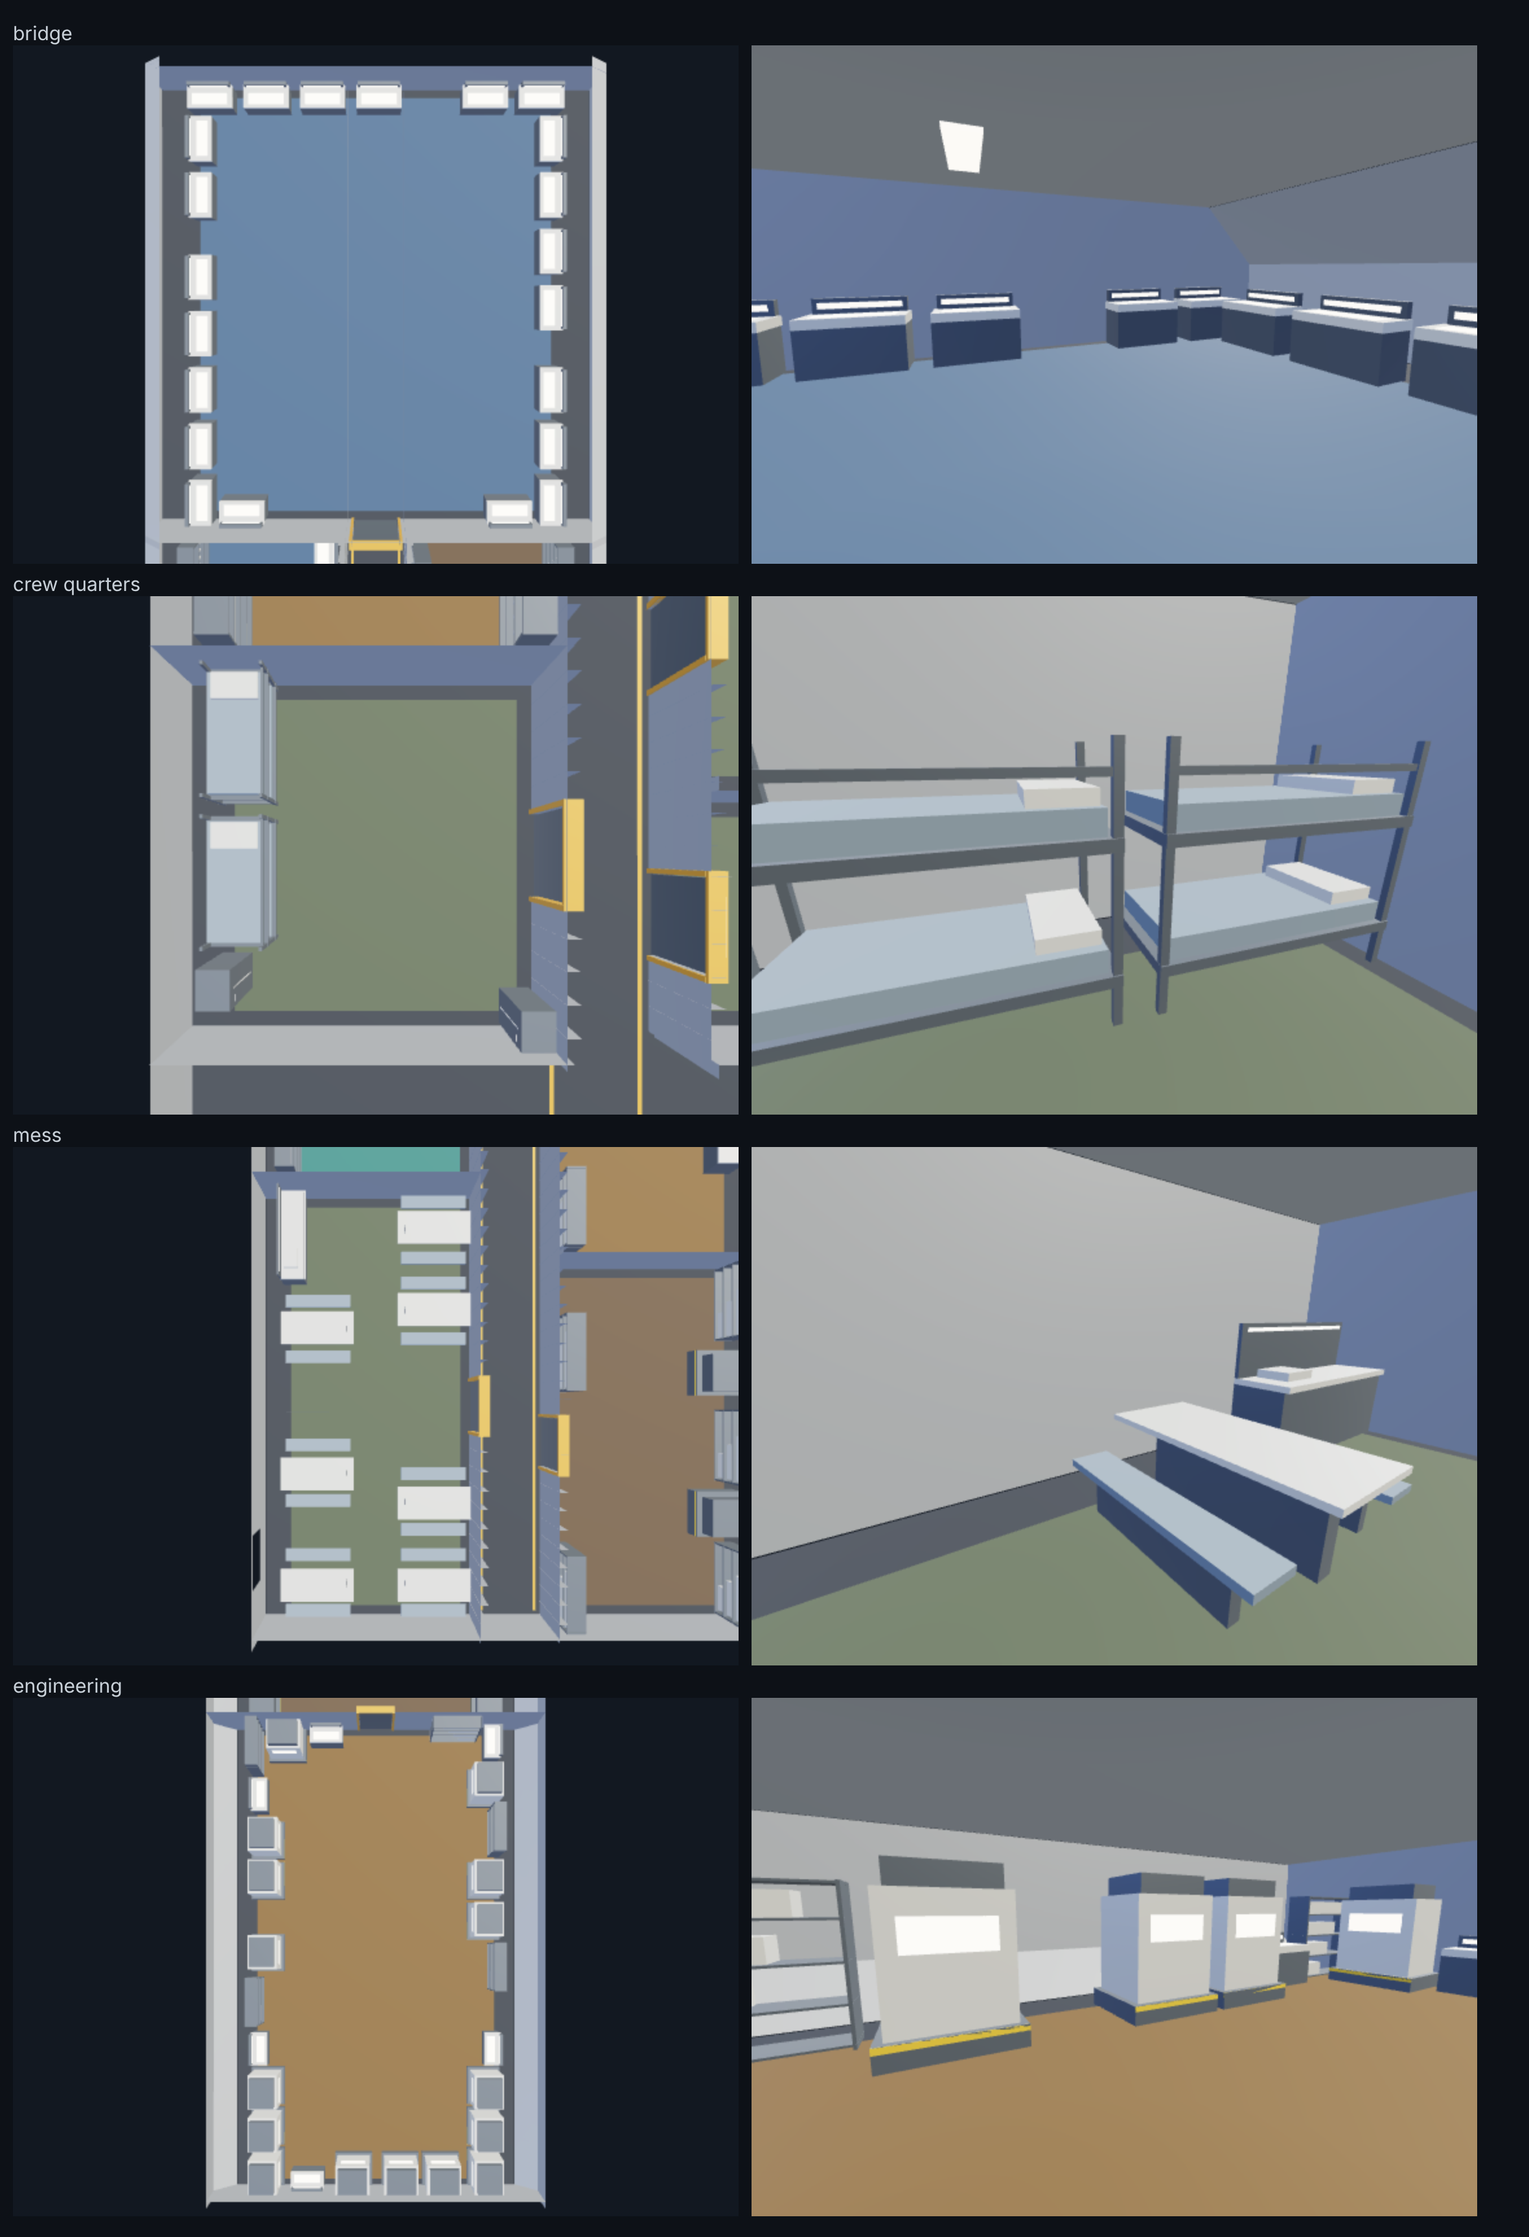
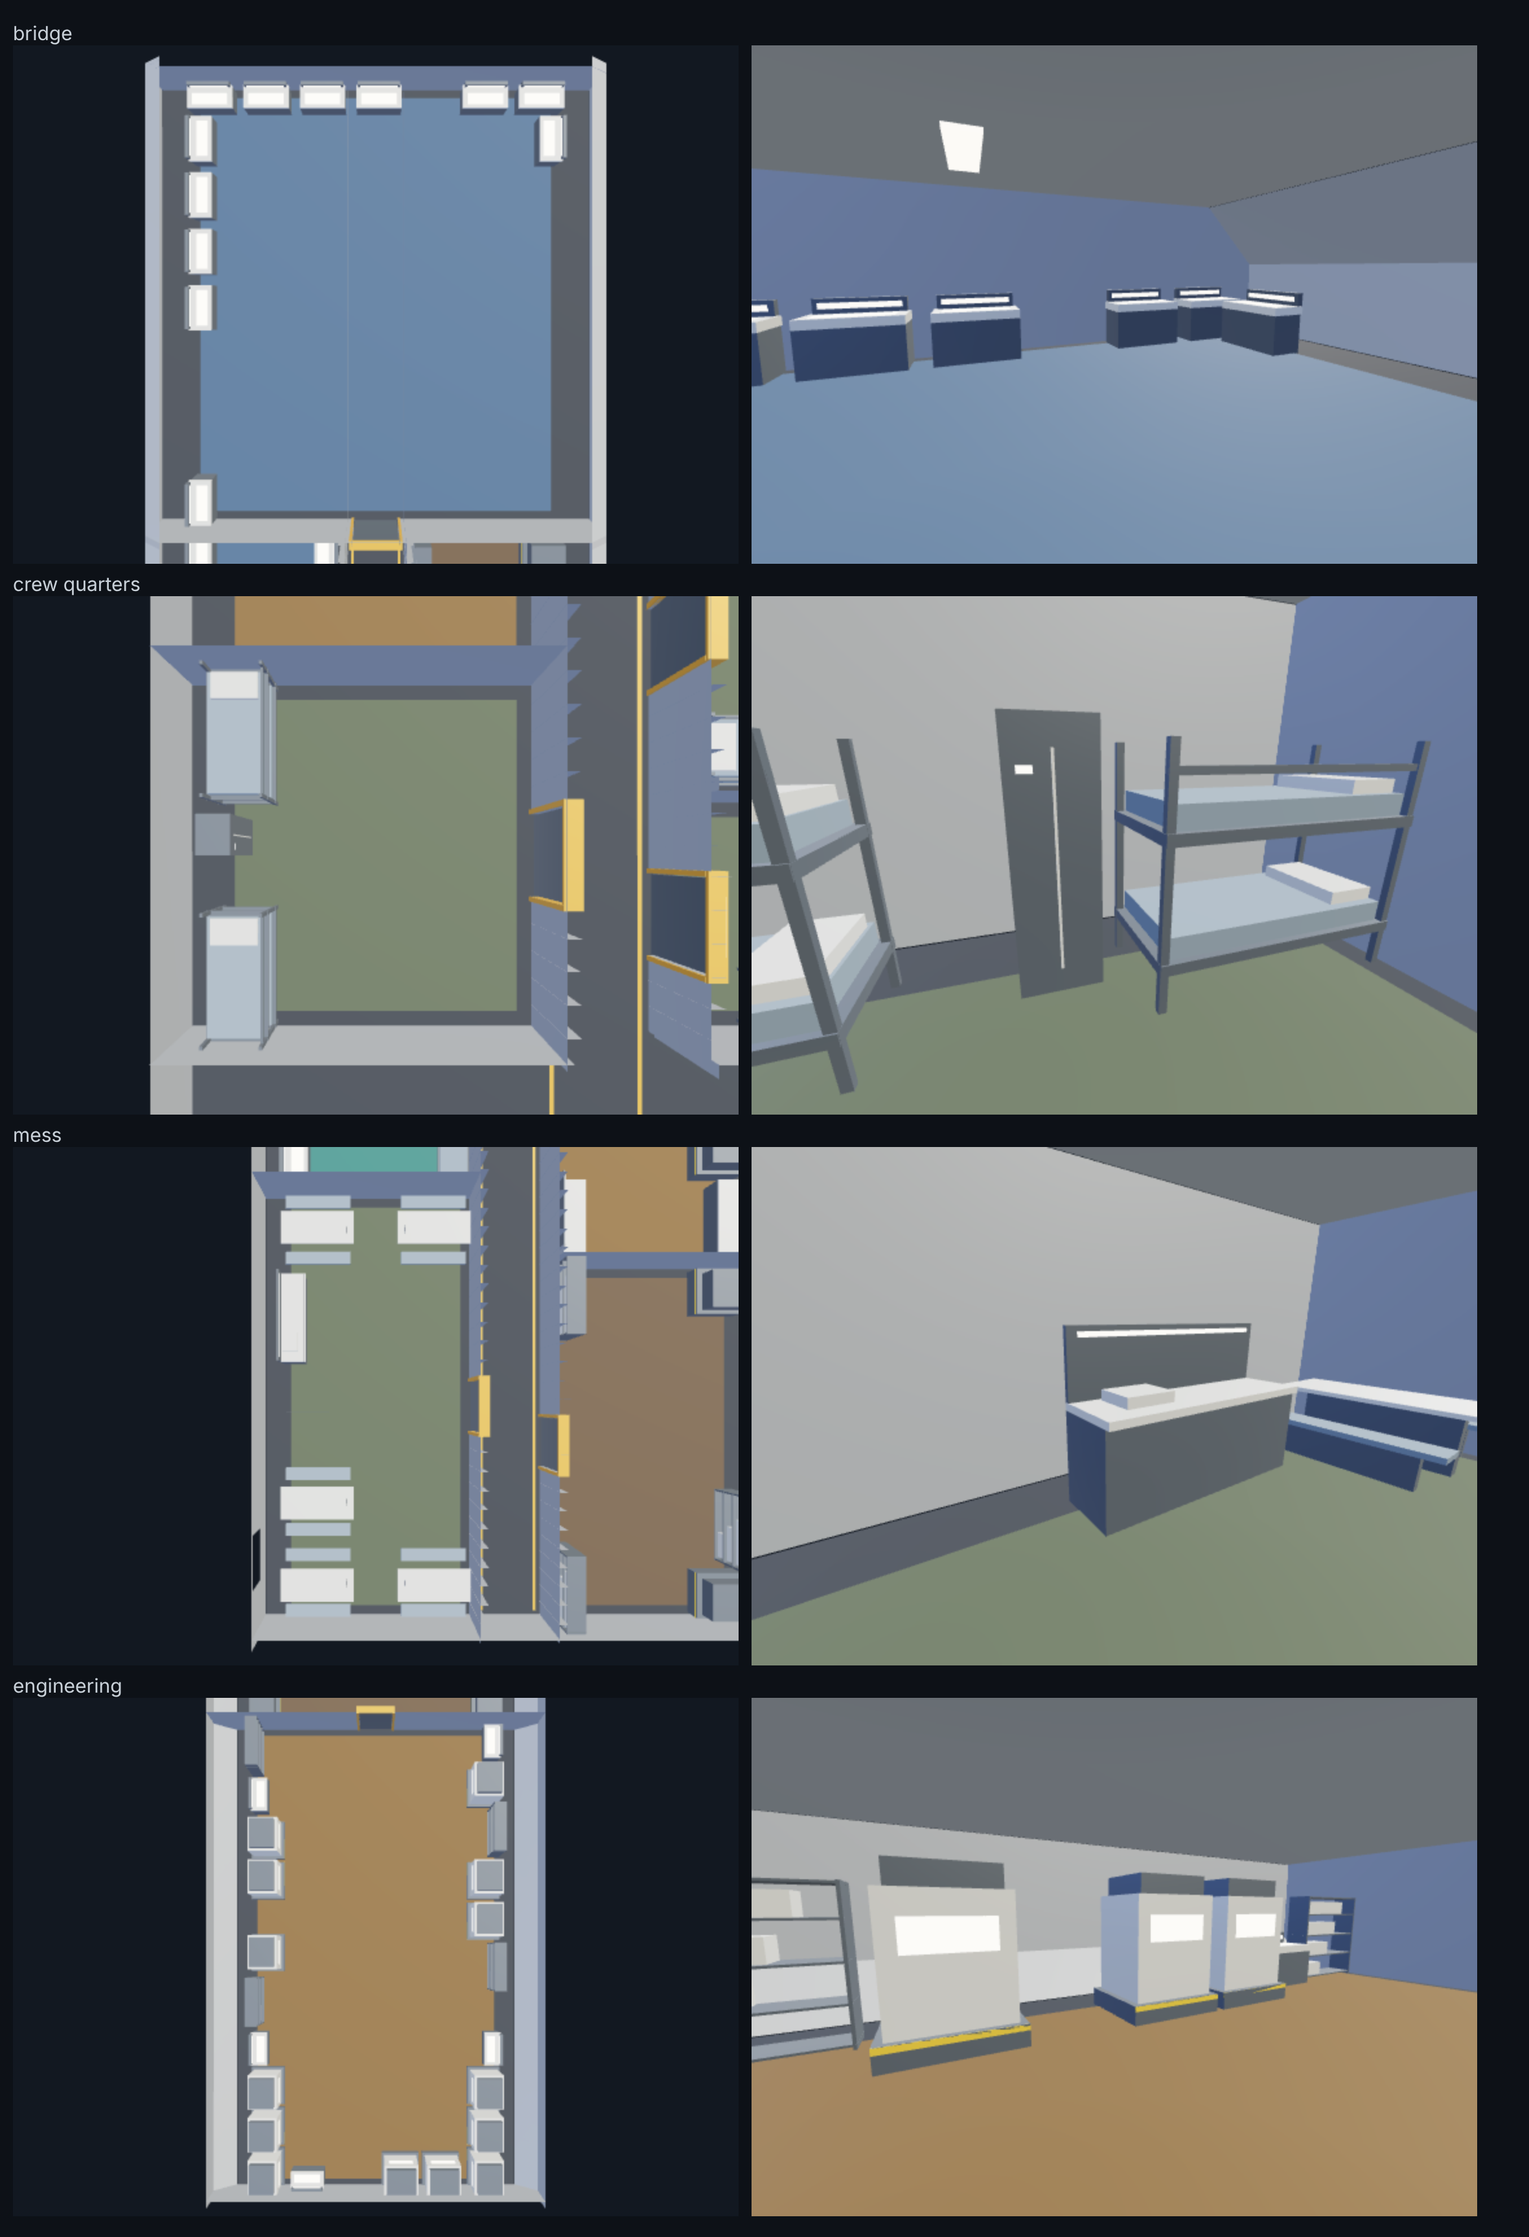
v0.30.0: furniture
Rooms are furnished by kind (bunks, consoles facing the bridge glass, mess
tables, counters, med beds, workbenches, machines, racks, shelves, crates,
sofas), against walls and clear of doors, door-to-centre paths, stairs,
lifts, floor holes and windows, and inside shaped decks' skins. Each piece
is a node (type furniture: kind, room, deck, size, facing). Rooms fill up
to about one piece per 9 m² with per-kind caps; cabins get one of each.

Godot: furniture gets collision and is baked into the walk test's navmesh;
door sensors ignore static bodies so furniture never holds a door open;
AssetSwap matches type/kind keys. `vocab` lists furniture kinds.

Claude-Session: https://claude.ai/code/session_0158inPvD3kHGdKZshvPqqUZ

diff --git a/tools/shipyard/shipyard.html b/tools/shipyard/shipyard.html
@@ -451,7 +451,7 @@ function syncHullForms() {
   fill(document.getElementById('ventral'), kind === 'citadel' ? ['keel', 'blades', 'undercroft'] : kind === 'fighter' || kind === 'utility' ? [] : ['keel', 'gondola', 'pods', 'none']);
   fill(document.getElementById('job'), JOBS[kind] ?? []);
 }
-const VERSIONS = ['0.10.0', '0.11.0', '0.12.0', '0.13.0', '0.14.0', '0.15.0', '0.16.0', '0.17.0', '0.18.0', '0.19.0', '0.20.0', '0.22.0', '0.23.0', '0.24.0', '0.25.1', '0.26.0', '0.27.0', '0.28.0', '0.29.0']; // 0.21.0 was never published; 0.4–0.9 and 0.25.0 were retired from the page (at most 512 files): their links open in the latest
+const VERSIONS = ['0.10.0', '0.11.0', '0.12.0', '0.13.0', '0.14.0', '0.15.0', '0.16.0', '0.17.0', '0.18.0', '0.19.0', '0.20.0', '0.22.0', '0.23.0', '0.24.0', '0.25.1', '0.26.0', '0.27.0', '0.28.0', '0.29.0', '0.30.0']; // 0.21.0 was never published; 0.4–0.9 and 0.25.0 were retired from the page (at most 512 files): their links open in the latest
 const LATEST = VERSIONS[VERSIONS.length - 1];
 const codeVersion = code => { const m = /^v(\d+p\d+p\d+)(-|$)/.exec(code); return m ? m[1].replaceAll('p', '.') : null; };
 const hashCode = () => decodeURIComponent(location.hash.slice(1)).trim().toLowerCase();

diff --git a/src/BadShip.Core/Interior/Furniture.cs b/src/BadShip.Core/Interior/Furniture.cs
@@ -65,6 +65,15 @@ public static class Furniture
         ["hangar"] = ["crates", "crates", "rack", "crates"],
     };
 
+    /// <summary>At most this many of a kind in one room (the rest of a room's list repeats until the walls are full).</summary>
+    private static readonly Dictionary<string, int> Caps = new()
+    {
+        ["locker"] = 4, ["desk"] = 2, ["bed"] = 2, ["counter"] = 4, ["bench"] = 2, ["sofa"] = 6, ["console"] = 12, ["shelf"] = 6,
+    };
+
+    /// <summary>Rooms furnished once through their list, not filled up: cabins and offices.</summary>
+    private static readonly HashSet<string> Cabins = ["passenger_cabin", "captain_cabin", "captain_office", "brig"];
+
     public static IEnumerable<string> Kinds => Pieces.Keys;
 
     private readonly record struct Rect(float X0, float X1, float Z0, float Z1)
@@ -88,6 +97,8 @@ public static class Furniture
             model.Materials[Top] = new MaterialDef(Top, Palettes.Linear("#b9bcb8"), 0.5f, 0.1f, Vector3.Zero, 1);
         }
         var r = Rng.Stream(model.Recipe.Seed, "furniture");
+        var ids = model.Modules.Select(m => m.Id).ToHashSet();
+        var sections = new Dictionary<(int, int), Vector2[]>();
         foreach (var room in interior.Rooms)
         {
             if (!Programs.TryGetValue(room.Kind, out var program)) continue;
@@ -124,33 +135,48 @@ public static class Furniture
 
             var parent = $"room_{room.Id}";
             var placed = 0;
-            // The list goes round again while pieces still fit, up to about one piece per 7 m² of floor.
-            var maxPieces = Math.Max(1, (int)((area.X1 - area.X0) * (area.Z1 - area.Z0) / 7f));
+            // The list goes round again while pieces still fit, up to about one piece per 9 m² of floor.
+            var maxPieces = Math.Max(1, (int)((area.X1 - area.X0) * (area.Z1 - area.Z0) / 9f));
             var front = room.Kind is "bridge" or "cockpit" or "observation";
-            for (var pass = 0; placed < maxPieces && pass < 6; pass++)
+            // The free floor only shrinks, so a kind that found no place once never will.
+            var full = new HashSet<string>();
+            var count = new Dictionary<string, int>();
+            var passes = Cabins.Contains(room.Kind) ? 1 : 6;
+            for (var pass = 0; placed < maxPieces && pass < passes; pass++)
             {
                 var before = placed;
                 foreach (var kind in program)
                 {
                     if (placed >= maxPieces) break;
+                    if (full.Contains(kind)) continue;
                     var p = Pieces[kind];
-                    if (pass > 0 && p.Kind is "desk" or "bed" or "sofa" && room.Kind is "passenger_cabin" or "captain_cabin" or "captain_office") continue;
-                    if (TryPlace(p, area, keep, windows, shell, inset, d, r, front && p.Kind is "console" or "sofa", out var spot))
+                    if (count.GetValueOrDefault(kind) >= (Caps.TryGetValue(kind, out var cap) ? cap : int.MaxValue)) continue;
+                    if (TryPlace(p, area, keep, windows, shell is null ? null : z => Section(sections, shell, inset, room.Deck, z), d, r, front && p.Kind is "console" or "sofa", out var spot))
                     {
                         keep.Add(spot.rect.Grow(0.15f));
-                        Build(model, parent, room, p, spot.rect, spot.facing, d.FloorY, placed);
+                        Build(model, ids, parent, room, p, spot.rect, spot.facing, d.FloorY, placed);
                         placed++;
+                        count[kind] = count.GetValueOrDefault(kind) + 1;
                     }
+                    else full.Add(kind);
                 }
                 if (placed == before) break;
             }
         }
     }
 
+    /// <summary>The deck's skin section at z (cached on a 5 cm grid), inset a little further than the skin itself.</summary>
+    private static Vector2[] Section(Dictionary<(int, int), Vector2[]> cache, Loft shell, float inset, int deck, float z)
+    {
+        var key = (deck, (int)MathF.Round(z * 20));
+        if (!cache.TryGetValue(key, out var sec)) cache[key] = sec = Skin.Inset(Skin.SectionAt(shell, key.Item2 / 20f), inset + 0.05f);
+        return sec;
+    }
+
     private const float DoorClear = 1.4f, Aisle = 0.65f;
 
     /// <summary>Finds a place against a wall: tries the four walls in a random order, sliding along each.</summary>
-    private static bool TryPlace(Piece p, Rect area, List<Rect> keep, List<WindowInfo> windows, Loft? shell, float inset,
+    private static bool TryPlace(Piece p, Rect area, List<Rect> keep, List<WindowInfo> windows, Func<float, Vector2[]>? section,
         DeckInfo d, Rng r, bool lookForward, out (Rect rect, Vector3 facing) spot)
     {
         // Facing: the direction from the wall into the room. The long walls first (in a random order), or, for a
@@ -184,7 +210,7 @@ public static class Furniture
                 if (rect.X0 < area.X0 - 1e-4f || rect.X1 > area.X1 + 1e-4f || rect.Z0 < area.Z0 - 1e-4f || rect.Z1 > area.Z1 + 1e-4f) continue;
                 if (keep.Any(x => x.Overlaps(rect))) continue;
                 if (p.Kind != "console" && p.H > InteriorGenerator.Sill + 0.1f && windows.Any(w => BlocksWindow(w, rect))) continue;
-                if (!Fits(rect, p.H, shell, inset, d)) continue;
+                if (!Fits(rect, p.H, section, d)) continue;
                 spot = (rect, f);
                 return true;
             }
@@ -203,14 +229,14 @@ public static class Furniture
     }
 
     /// <summary>Inside the deck's skin at both ends and at the top (and under a sloped ceiling).</summary>
-    private static bool Fits(Rect rect, float h, Loft? shell, float inset, DeckInfo d)
+    private static bool Fits(Rect rect, float h, Func<float, Vector2[]>? section, DeckInfo d)
     {
         var top = d.FloorY + h + 0.05f;
         if (top > d.CeilingY - 0.05f) return false;
-        if (shell is null) return true;
+        if (section is null) return true;
         foreach (var z in new[] { rect.Z0, rect.Z1, (rect.Z0 + rect.Z1) / 2 })
         {
-            var sec = Skin.Inset(Skin.SectionAt(shell, z), inset + 0.05f);
+            var sec = section(z);
             foreach (var y in new[] { d.FloorY + 0.05f, top })
             {
                 if (Skin.SpanAt(sec, y) is not { } span || rect.X0 < span.a || rect.X1 > span.b) return false;
@@ -222,9 +248,12 @@ public static class Furniture
     }
 
     /// <summary>One piece of furniture as its own node, built in the frame of the wall it stands against.</summary>
-    private static void Build(Ship model, string parent, RoomInfo room, Piece p, Rect rect, Vector3 facing, float fy, int n)
+    private static void Build(Ship model, HashSet<string> ids, string parent, RoomInfo room, Piece p, Rect rect, Vector3 facing, float fy, int n)
     {
-        var m = InteriorGenerator.Add(model, $"{room.Id}_{p.Kind}_{n}", "furniture", parent);
+        var id = $"{room.Id}_{p.Kind}_{n}";
+        for (var i = 2; !ids.Add(id); i++) id = $"{room.Id}_{p.Kind}_{n}_{i}";
+        var m = new Module { Id = id, Type = "furniture", Tier = ModuleTier.Tertiary, ParentId = parent };
+        model.Modules.Add(m);
         var c = new Vector3((rect.X0 + rect.X1) / 2, fy, (rect.Z0 + rect.Z1) / 2);
         m.Pivot = c;
         m.Extras = new()

diff --git a/src/BadShip.Cli/Program.cs b/src/BadShip.Cli/Program.cs
@@ -147,6 +147,7 @@ try
             var rooms = new SortedDictionary<string, int>(StringComparer.Ordinal);
             var doors = new SortedDictionary<string, int>(StringComparer.Ordinal);
             var lifts = new SortedDictionary<string, int>(StringComparer.Ordinal);
+            var furniture = new SortedDictionary<string, int>(StringComparer.Ordinal);
             var parts = new SortedDictionary<string, int>(StringComparer.Ordinal);
             void Count(IDictionary<string, int> d, string k) => d[k] = d.TryGetValue(k, out var v) ? v + 1 : 1;
             void Note(IDictionary<string, VocabEntry> d, BadShip.Model.Module m, string archetype)
@@ -171,6 +172,7 @@ try
                     foreach (var m in inner.Model.Modules)
                     {
                         Note(inside, m, archetype);
+                        if (m.Type == "furniture" && m.Extras?["kind"] is string fk) Count(furniture, fk);
                         foreach (var g in m.Mesh.Groups.Keys) Count(insideMaterials, g);
                     }
                     foreach (var k in inner.Model.Markers) Count(insideMarkers, k.Kind);
@@ -214,6 +216,7 @@ try
             Table("Room kinds (`rooms[].kind`; `extras.kind` on room nodes)", rooms, "kind");
             Table("Door kinds (`doors[].kind`)", doors, "kind");
             Table("Lifts (`lifts[].kind`)", lifts, "kind");
+            Table("Furniture kinds (`extras.kind` on furniture nodes; swap one with `furniture/KIND`)", furniture, "kind");
             if (opts.TryGetValue("out", out var outFile)) File.WriteAllText(outFile, md.ToString());
             else Console.Write(md.ToString());
             return 0;

diff --git a/src/BadShip.Core/Generation/ShipGenerator.cs b/src/BadShip.Core/Generation/ShipGenerator.cs
@@ -9,7 +9,7 @@ namespace BadShip.Generation;
 public static class ShipGenerator
 {
     /// <summary>Bumped whenever a change makes the same recipe give a different ship.</summary>
-    public const string Version = "0.29.0";
+    public const string Version = "0.30.0";
 
     public static readonly string[] Archetypes = ["freighter", "research", "patrol", "fighter", "citadel", "industrial", "utility", "ring", "civilian", "raider", "warship"];
     public static readonly string[] Families = ["barge", "spine", "twin", "block", "fighter", "citadel", "industrial", "utility", "ring", "civilian", "warship"];

diff --git a/docs/REFERENCE.md b/docs/REFERENCE.md
@@ -106,7 +106,7 @@ Everything below comes from actual ships, generated by the command in the first 
 badship vocab --count 12 --out docs/REFERENCE.vocab.md
 ```
 
-Generated by `badship vocab --count 12` (generator 0.29.0): 11 archetypes × 12 seeds, small, medium and large, with interiors.
+Generated by `badship vocab --count 12` (generator 0.30.0): 11 archetypes × 12 seeds, small, medium and large, with interiors.
 
 ### Exterior part types (`extras.type`)
 
@@ -256,6 +256,7 @@ Generated by `badship vocab --count 12` (generator 0.29.0): 11 archetypes × 12 
 | `deck` | 522 | `deck`, `floor_y` |
 | `door` | 25792 | `height`, `kind`, `opens`, `rooms`, `slide_axis`, `width` |
 | `elevator` | 51 | `access`, `decks`, `doors`, `kind`, `rooms`, `shaft`, `stops_y` |
+| `furniture` | 246382 | `deck`, `depth`, `facing`, `height`, `kind`, `room`, `width` |
 | `interior` | 112 |  |
 | `ladder` | 117 | `access`, `bottom`, `decks`, `kind`, `rooms`, `shaft`, `stops_y`, `top` |
 | `railing` | 502 |  |
@@ -278,8 +279,11 @@ Generated by `badship vocab --count 12` (generator 0.29.0): 11 archetypes × 12 
 
 | material | seen |
 |---|---:|
-| `emissive_light` | 56365 |
-| `hazard` | 163 |
+| `emissive_light` | 137924 |
+| `furniture_frame` | 241231 |
+| `furniture_soft` | 68176 |
+| `furniture_top` | 207389 |
+| `hazard` | 80289 |
 | `interior_door` | 25731 |
 | `interior_floor` | 1434 |
 | `interior_skin` | 980 |
@@ -361,3 +365,23 @@ Generated by `badship vocab --count 12` (generator 0.29.0): 11 archetypes × 12 
 |---|---:|
 | `elevator` | 51 |
 | `ladder` | 117 |
+
+### Furniture kinds (`extras.kind` on furniture nodes; swap one with `furniture/KIND`)
+
+| kind | seen |
+|---|---:|
+| `bed` | 1150 |
+| `bench` | 1307 |
+| `bunk` | 56914 |
+| `console` | 21238 |
+| `counter` | 1883 |
+| `crates` | 32039 |
+| `desk` | 3839 |
+| `locker` | 28255 |
+| `machine` | 20830 |
+| `med_bed` | 496 |
+| `mess_table` | 626 |
+| `rack` | 27257 |
+| `shelf` | 36540 |
+| `sofa` | 5151 |
+| `workbench` | 8857 |
